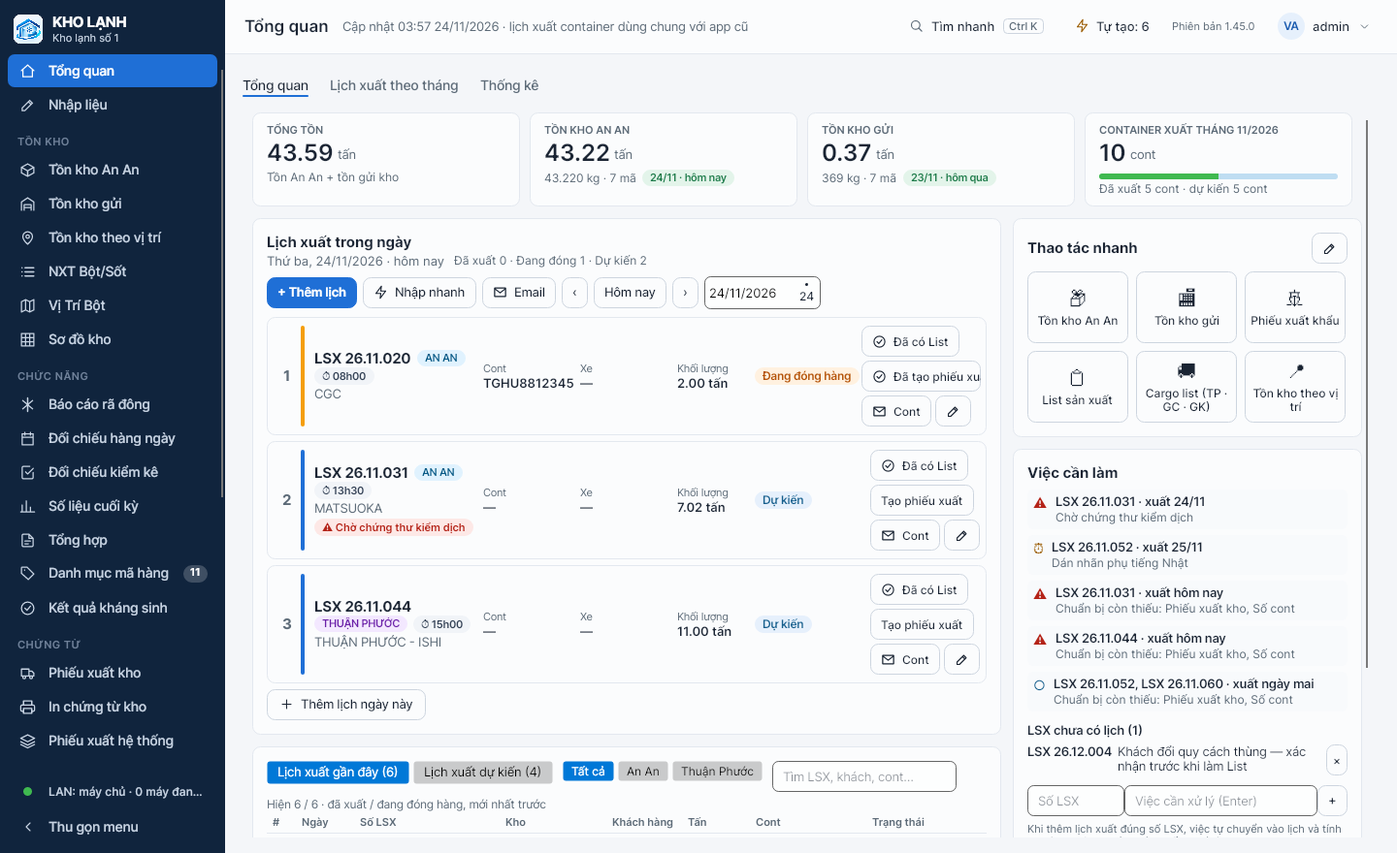
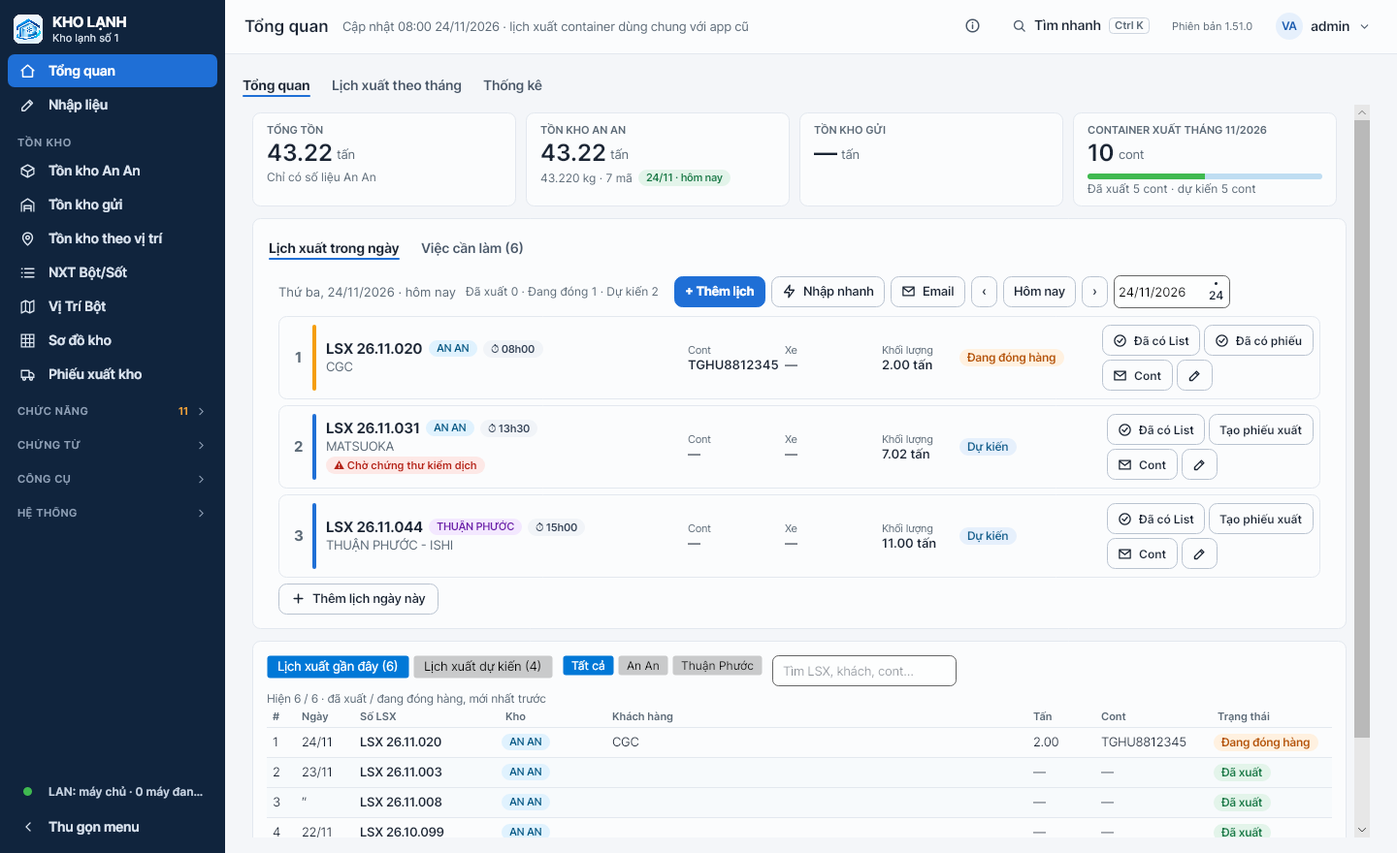
1.52.0: mở bảng ra cửa sổ lớn (mọi bảng), bảng con List sản xuất đủ dòng, Tổng quan gọn
- SheetGrid.OpenLarge: nút ⤢ ở góc trên trái (hoặc F11 / chuột phải) mở bảng ra cửa sổ gần toàn màn hình,
  cùng GridModel (sửa ở đâu cũng cập nhật), giữ định dạng / ô tích / bộ lọc. Lưới chỉ nghe Model khi đang hiện.
- Dòng tìm kiếm bỏ qua cột ẩn rộng 0.
- Phiếu xuất kho › List sản xuất: bảng con cao theo số dòng (tối thiểu 3), khung chi tiết rộng ngang danh sách.
- Tổng quan: bỏ khung Thao tác nhanh; Việc cần làm thành tab 2 của Lịch xuất trong ngày; hai khung rộng hết trang.

Claude-Session: https://claude.ai/code/session_01CcL5zKPX6MXqPbz7cZL3gY

diff --git a/src/KhoLanh.App/Controls/SheetGrid.cs b/src/KhoLanh.App/Controls/SheetGrid.cs
@@ -264,7 +264,10 @@ public sealed class SheetGrid : UserControl
         _vbar.PropertyChanged += (_, e) => { if (e.Property == RangeBase.ValueProperty) { TopRow = (int)Math.Round(_vbar.Value); Redraw(); } };
         _hbar.PropertyChanged += (_, e) => { if (e.Property == RangeBase.ValueProperty) { OffsetX = _hbar.Value; Redraw(); } };
         _surface.SizeChanged += (_, _) => UpdateScroll();
-        Model.Changed += OnModelChanged;
+        // nghe Model chỉ khi đang hiện: lưới trong cửa sổ lớn (OpenLarge) đóng rồi thì thôi nghe, không giữ lại bộ nhớ.
+        // Gắn lại vào màn hình → đồng bộ những gì Model đổi trong lúc ẩn.
+        AttachedToVisualTree += (_, _) => { Model.Changed -= OnModelChanged; Model.Changed += OnModelChanged; OnModelChanged(); };
+        DetachedFromVisualTree += (_, _) => Model.Changed -= OnModelChanged;
         _seenLoads = Model.Loads; _seenRows = Model.RowCount;
         _editor.KeyDown += OnEditorKey;
         _fTimer.Tick += (_, _) => { _fTimer.Stop(); if (_fCol >= 0) SetFilter(_fCol, _fEditor.Text ?? ""); };
@@ -281,6 +284,54 @@ public sealed class SheetGrid : UserControl
     }
 
     public new void Focus() => _surface.Focus();
+
+    // ------------------------------------------------------------------ cửa sổ lớn (1.52)
+    /// <summary>Tiêu đề cửa sổ lớn (mặc định: tên trang đang mở).</summary>
+    public string? LargeTitle { get; set; }
+    /// <summary>Có nút ⤢ ở góc trên trái để mở bảng ra cửa sổ lớn (mặc định bật; lưới trong chính cửa sổ lớn thì tắt).</summary>
+    public bool CanEnlarge { get; set; } = true;
+    /// <summary>Cửa sổ lớn mở gần nhất (công cụ chụp màn hình dùng).</summary>
+    internal static Window? LastLarge;
+
+    /// <summary>
+    /// Mở bảng ra cửa sổ lớn (≈ 92 % màn hình): cùng dữ liệu (cùng GridModel — sửa ở đâu cũng cập nhật cả hai), cùng định dạng,
+    /// ô tích, bộ lọc riêng. Dùng cho bảng con / bảng trong khung hẹp chỉ thấy vài dòng.
+    /// </summary>
+    public async Task OpenLarge()
+    {
+        if (TopLevel.GetTopLevel(this) is not Window owner) return;
+        if (_editing) Commit(0, 0);
+        var g = new SheetGrid(Model)
+        {
+            SpareRows = SpareRows, EmptyText = EmptyText, Display = Display, CellBackground = CellBackground, CanEnlarge = false,
+            CheckFill = CheckFill, Filterable = Filterable,
+        };
+        g.CheckCol = CheckCol;
+        foreach (var (k, f) in _filters) g._filters[k] = new ColumnFilter { Text = f.Text, Allowed = f.Allowed is null ? null : new HashSet<string>(f.Allowed) };
+        var title = LargeTitle ?? owner.Title ?? "Bảng";
+        var close = new Button { Content = "Đóng", IsCancel = true, MinWidth = 90, HorizontalContentAlignment = HorizontalAlignment.Center };
+        var info = new TextBlock { Classes = { "muted" }, VerticalAlignment = VerticalAlignment.Center };
+        void Info() => info.Text = g.IsFiltered ? $"Đang hiện {g.VCount:N0} / {Model.RowCount:N0} dòng" : $"{Model.RowCount:N0} dòng";
+        g.FilterChanged += Info; Info();
+        var bar = new DockPanel { Margin = new Thickness(0, 10, 0, 0) };
+        DockPanel.SetDock(close, Dock.Right); bar.Children.Add(close); bar.Children.Add(info);
+        var root = new DockPanel();
+        DockPanel.SetDock(bar, Dock.Bottom); root.Children.Add(bar); root.Children.Add(g);
+        var scr = owner.Screens.ScreenFromWindow(owner)?.WorkingArea;
+        var sc = owner.RenderScaling <= 0 ? 1 : owner.RenderScaling;
+        var w = new Window
+        {
+            Title = title, Width = Math.Max(800, (scr?.Width ?? 1400) / sc * 0.92), Height = Math.Max(500, (scr?.Height ?? 860) / sc * 0.88),
+            WindowStartupLocation = WindowStartupLocation.CenterOwner, ShowInTaskbar = false, Background = AppTheme.Card, MinWidth = 600, MinHeight = 360,
+            Content = new Border { Padding = new Thickness(14, 12), Child = root },
+        };
+        close.Click += (_, _) => w.Close();
+        LastLarge = w;
+        var (row, col) = (Row, Col);
+        w.Opened += (_, _) => { g.ApplyFilter(); g.Select(row, col); g.Focus(); };
+        await w.ShowDialog(owner);
+        Redraw();
+    }
 
     internal void Redraw() { _surface.InvalidateVisual(); if (_editing) PlaceEditor(); if (_fEditor.IsVisible) PlaceFilterEditor(); }
 
@@ -394,6 +445,7 @@ public sealed class SheetGrid : UserControl
             case Key.Tab: Move((VR, Col + (shift ? -1 : 1)), false); break;
             case Key.Enter: Move((VR + (shift ? -1 : 1), Col), false); break;
             case Key.F2: BeginEdit(null); break;
+            case Key.F11 when CanEnlarge: _ = OpenLarge(); break;
             case Key.Space when HasCheck && !ctrl: ToggleRows(SelModelRows().Where(m => m < Model.RowCount).ToList()); break;
             case Key.Delete: ClearSelection(); break;
             case Key.Back: BeginEdit(""); break;
@@ -595,11 +647,16 @@ public sealed class SheetGrid : UserControl
                 Item("Làm lại", () => Model.Redo(), "Ctrl+Y"),
             },
         };
+        var big = Item("Mở bảng ra cửa sổ lớn", async () => await OpenLarge(), "F11");
+        var selAll = Item("Chọn tất cả", () => SelectRangeV(new CellRange(0, 0, Math.Max(0, VCount - 1), Math.Max(0, Model.ColCount - 1))), "Ctrl+A");
+        menu.Items.Insert(0, big); menu.Items.Insert(1, new Separator());
+        menu.Items.Add(new Separator()); menu.Items.Add(selAll);
         var fMenu = Item("Lọc cột này…", () => OpenFilterMenu(Col), "Alt+Down");
         var fClear = Item("Bỏ mọi bộ lọc", ClearFilters);
-        menu.Items.Insert(0, fMenu); menu.Items.Insert(1, fClear); menu.Items.Insert(2, new Separator());
+        menu.Items.Insert(2, fMenu); menu.Items.Insert(3, fClear); menu.Items.Insert(4, new Separator());
         menu.Opening += (_, _) =>
         {
+            big.IsVisible = CanEnlarge; ((Separator)menu.Items[1]!).IsVisible = CanEnlarge;
             fMenu.IsVisible = fClear.IsVisible = _filterable;
             fClear.IsEnabled = _map is not null;
             fClear.Header = _map is null ? "Bỏ mọi bộ lọc" : $"Bỏ mọi bộ lọc (đang hiện {_map.Count:N0} / {Model.RowCount:N0} dòng)";
@@ -738,6 +795,7 @@ public sealed class SheetGrid : UserControl
                 using (dc.PushClip(new Rect(rhw, hh, Math.Max(0, b.Width - rhw), SheetGrid.FilterH)))
                     foreach (var (c, cx, cw) in cols)
                     {
+                        if (cw < 24) continue;   // cột ẩn (rộng 0, giữ mã dòng) / quá hẹp: không có ô tìm
                         var q = _g.FilterOf(c)?.Text ?? "";
                         var cell = new Rect(cx, hh, cw, SheetGrid.FilterH);
                         if (q.Trim().Length > 0) dc.FillRectangle(FilterOnBg, cell);
@@ -785,6 +843,13 @@ public sealed class SheetGrid : UserControl
                 if (filtered) { dc.FillRectangle(FilterOnBg, new Rect(1, hh + 1, rhw - 2, SheetGrid.FilterH - 2)); dc.DrawGeometry(Accent, null, fun); }
                 else dc.DrawGeometry(null, new Pen(Muted, 1), fun);
                 dc.DrawLine(HeadLine, new Point(0, top - 0.5), new Point(rhw, top - 0.5));
+            }
+            if (_g.CanEnlarge)
+            {   // ô góc: nút ⤢ mở bảng ra cửa sổ lớn (hai mũi tên chéo)
+                var cx = _g.NumW / 2; var cy = hh / 2; var pen = new Pen(Muted, 1.4) { LineCap = PenLineCap.Round };
+                dc.DrawLine(pen, new Point(cx - 5, cy + 5), new Point(cx + 5, cy - 5));
+                dc.DrawLine(pen, new Point(cx + 1, cy - 5), new Point(cx + 5, cy - 5)); dc.DrawLine(pen, new Point(cx + 5, cy - 5), new Point(cx + 5, cy - 1));
+                dc.DrawLine(pen, new Point(cx - 5, cy + 1), new Point(cx - 5, cy + 5)); dc.DrawLine(pen, new Point(cx - 5, cy + 5), new Point(cx - 1, cy + 5));
             }
             if (_g.HasCheck)
             {   // ô tích tiêu đề = chọn / bỏ mọi dòng đang hiện
@@ -853,6 +918,7 @@ public sealed class SheetGrid : UserControl
                 if (r < 0 && p.Y < SheetGrid.HeadH) { var all = _g.ShownRows; _g.SetChecked(all, _g.MasterState() != true); e.Handled = true; return; }
                 if (r >= 0) { var m = _g.ToModel(r); if (m < _g.Model.RowCount) { _g.SelectV(r, _g.Col); _g.ToggleRows(new[] { m }); } e.Handled = true; return; }
             }
+            if (r < 0 && c < 0 && _g.CanEnlarge && p.Y < SheetGrid.HeadH && p.X < _g.NumW) { e.Handled = true; _ = _g.OpenLarge(); return; }
             if (r < 0 && c < 0) { _g.SelectRangeV(new CellRange(0, 0, Math.Max(0, _g.VCount - 1), _g.Model.ColCount - 1)); return; }
             if (r < 0) // tiêu đề cột
             {
@@ -882,8 +948,12 @@ public sealed class SheetGrid : UserControl
             var p = e.GetPosition(this);
             if (_drag == Drag.None)
             {
+                var onBig = _g.CanEnlarge && p.Y < SheetGrid.HeadH && p.X < _g.NumW;
                 Cursor = ResizeHit(p) >= 0 ? new Cursor(StandardCursorType.SizeWestEast)
+                    : onBig ? new Cursor(StandardCursorType.Hand)
                     : _g.ShowFilterRow && p.Y >= SheetGrid.HeadH && p.Y < _g.TopH ? new Cursor(StandardCursorType.Ibeam) : Cursor.Default;
+                var tip = onBig ? "Mở bảng ra cửa sổ lớn (F11)" : null;
+                if (!Equals(ToolTip.GetTip(this), tip)) { ToolTip.SetTip(this, tip); ToolTip.SetIsOpen(this, tip is not null); }
                 return;
             }
             if (_drag == Drag.Resize)

diff --git a/src/KhoLanh.App/Views/TongQuanView.cs b/src/KhoLanh.App/Views/TongQuanView.cs
@@ -16,8 +16,8 @@ namespace KhoLanh.App.Views;
 /// • Lịch xuất trong ngày (lùi / tới ngày): mỗi container 1 thẻ — LSX, khách, công ty, việc cần làm, số cont, số xe, tấn, trạng thái;
 ///   nút Tạo List / Tạo phiếu xuất (hoặc "Đã có" → mở thẳng), ✉ Cont (dán email Thông tin xe), Sửa. Bấm thẻ → chi tiết lịch.
 /// • + Thêm lịch · ⚡ Nhập nhanh (dán kế hoạch "Ngày dd/mm: … LSX …") · ✉ Email (duyệt thư cập nhật lịch, tự quét Gmail).
-/// • Lịch xuất gần đây / dự kiến (lọc An An / Thuận Phước, tìm), Việc cần làm (việc đến hạn, chuẩn bị còn thiếu, việc cho LSX chưa có lịch),
-///   Thao tác nhanh (tùy chọn theo tài khoản). Tab Lịch tháng (danh sách theo ngày) và Thống kê (theo tháng trong năm).
+/// • Việc cần làm (tab 2 của khung Lịch xuất trong ngày: việc đến hạn, chuẩn bị còn thiếu, việc cho LSX chưa có lịch),
+///   Lịch xuất gần đây / dự kiến (lọc An An / Thuận Phước, tìm). Tab Lịch tháng (danh sách theo ngày) và Thống kê (theo tháng trong năm).
 /// </summary>
 public sealed partial class TongQuanView : UserControl, IPage
 {
@@ -50,7 +50,8 @@ public sealed partial class TongQuanView : UserControl, IPage
     private readonly TextBox _rq = new() { Watermark = "Tìm LSX, khách, cont…", Width = 190, FontSize = 12.5 };
     private readonly WrapPanel _rSeg = new() { ItemSpacing = 4 }, _rCoBar = new() { ItemSpacing = 4 };
     private readonly StackPanel _todo = new() { Spacing = 6 };
-    private readonly WrapPanel _quick = new() { ItemSpacing = 8, LineSpacing = 8 };
+    private readonly WrapPanel _quick = new() { ItemSpacing = 8, LineSpacing = 8 };   // không còn hiện (1.52) — giữ để không đổi lưu thiết lập cũ
+    private readonly TabItem _todoTab = new();
     private readonly Button _email;
     private readonly CalendarDatePicker _pick = new() { Width = 120, SelectedDateFormat = CalendarDatePickerFormat.Custom, CustomDateFormatString = "dd/MM/yyyy" };
     private readonly StackPanel _monthBody = new() { Spacing = 4 };
@@ -123,7 +124,7 @@ public sealed partial class TongQuanView : UserControl, IPage
         acts.Children.Add(Btn("Hôm nay", () => { _dayOff = 0; PaintDay(); return Task.CompletedTask; }));
         acts.Children.Add(Btn("›", () => { _dayOff++; PaintDay(); return Task.CompletedTask; }));
         acts.Children.Add(_pick);
-        var tl = new StackPanel { Spacing = 2 }; tl.Children.Add(H2("Lịch xuất trong ngày"));
+        var tl = new StackPanel { Spacing = 2, VerticalAlignment = VerticalAlignment.Center };
         var sub = new StackPanel { Orientation = Orientation.Horizontal, Spacing = 10 }; sub.Children.Add(_dayLb); sub.Children.Add(_dayCnt); tl.Children.Add(sub);
         dayHead.Children.Add(tl); dayHead.Children.Add(acts);
         var dayBox = new StackPanel(); dayBox.Children.Add(dayHead); dayBox.Children.Add(_day);
@@ -137,21 +138,16 @@ public sealed partial class TongQuanView : UserControl, IPage
         rHead.Children.Add(_rSeg); rHead.Children.Add(_rCoBar); rHead.Children.Add(_rq);
         var recentBox = new StackPanel(); recentBox.Children.Add(rHead); recentBox.Children.Add(_recentNote); recentBox.Children.Add(_recent);
 
-        var left = new StackPanel { Spacing = 12 };
-        left.Children.Add(Card(dayBox)); left.Children.Add(Card(recentBox));
-
-        var qHead = new DockPanel { Margin = new Thickness(0, 0, 0, 8) };
-        var qEdit = Btn("✎", async () => await QuickEdit(), "Chọn các ô thao tác nhanh của tài khoản này"); DockPanel.SetDock(qEdit, Dock.Right); qHead.Children.Add(qEdit);
-        qHead.Children.Add(H2("Thao tác nhanh"));
-        var qBox = new StackPanel(); qBox.Children.Add(qHead); qBox.Children.Add(_quick);
-        var tdBox = new StackPanel(); tdBox.Children.Add(H2("Việc cần làm").Also(t => t.Margin = new Thickness(0, 0, 0, 8))); tdBox.Children.Add(_todo);
-        var right = new StackPanel { Spacing = 12 };
-        right.Children.Add(Card(qBox)); right.Children.Add(Card(tdBox));
-
-        var cols = new Grid { ColumnDefinitions = new ColumnDefinitions("*,12,360") };
-        cols.Children.Add(left); Grid.SetColumn(right, 2); cols.Children.Add(right);
+        // 1.52: bỏ khung "Thao tác nhanh" (đã có menu bên trái); "Việc cần làm" thành tab 2 của khung Lịch xuất trong ngày;
+        // hai khung còn lại rộng hết trang.
+        _todoTab.Header = "Việc cần làm";
+        _todoTab.Content = new StackPanel { Margin = new Thickness(0, 8, 0, 0), Children = { _todo } };
+        var dayTabs = new TabControl
+        {
+            Items = { new TabItem { Header = "Lịch xuất trong ngày", Content = new StackPanel { Margin = new Thickness(0, 8, 0, 0), Children = { dayBox } } }, _todoTab },
+        };
         var root = new StackPanel { Spacing = 12 };
-        root.Children.Add(_kpi); root.Children.Add(_warn); root.Children.Add(cols);
+        root.Children.Add(_kpi); root.Children.Add(_warn); root.Children.Add(Card(dayTabs)); root.Children.Add(Card(recentBox));
         return root;
     }
 
@@ -360,6 +356,8 @@ public sealed partial class TongQuanView : UserControl, IPage
             .GroupBy(x => string.Join(",", x.Ids)).Select(g => g.First())
             .Select(x => (x, thieu: new[] { x.HasList ? "" : "List", x.HasPhieu ? "" : "Phiếu xuất kho", x.Cont.Length > 0 && !x.Cont.StartsWith("ghép") ? "" : "Số cont" }.Where(s => s.Length > 0).ToList()))
             .Where(x => x.thieu.Count > 0).ToList();
+        var nTodo = hot.Count + prep.Count + Svc.Pending.Select(p => Sq(p.Lsx)).Distinct().Count();
+        _todoTab.Header = nTodo > 0 ? $"Việc cần làm ({nTodo})" : "Việc cần làm";
         if (hot.Count == 0 && prep.Count == 0 && Svc.Pending.Count == 0)
             _todo.Children.Add(new TextBlock { Text = "✓ Không có việc đến hạn.", Foreground = B("#1E7B34"), FontSize = 12.5 });
         foreach (var (r, s) in hot)

diff --git a/src/KhoLanh.App/Views/ListSxView.cs b/src/KhoLanh.App/Views/ListSxView.cs
@@ -58,7 +58,7 @@ public sealed class ListSxView : UserControl
 
         var top = new StackPanel { Spacing = 4, Margin = new Thickness(0, 6, 0, 6) };
         top.Children.Add(bar); top.Children.Add(_status);
-        var split = new Grid { ColumnDefinitions = new ColumnDefinitions("5*,6,4*") };
+        var split = new Grid { ColumnDefinitions = new ColumnDefinitions("1*,6,1*") };   // 1.52: khung chi tiết rộng ngang danh sách
         split.Children.Add(new Border { BorderBrush = Line_, BorderThickness = new Thickness(1), Child = _lg });
         var gs = new GridSplitter { Background = Brushes.Transparent }; Grid.SetColumn(gs, 1); split.Children.Add(gs);
         var right = new ScrollViewer { Content = new Border { Padding = new Thickness(8, 0, 4, 8), Child = _detail }, HorizontalScrollBarVisibility = Avalonia.Controls.Primitives.ScrollBarVisibility.Disabled };
@@ -151,7 +151,8 @@ public sealed class ListSxView : UserControl
         var sm = new GridModel { ReadOnly = !_edit };
         sm.Load(new[] { new GridColumn("size", "Size", 90) { ReadOnly = true }, new GridColumn("ten", "Tên hàng", 200), new GridColumn("ma", "Mã hàng", 180), new GridColumn("lo", "Mã lô", 80), new GridColumn("tong", "Tổng kiện", 75, "number") { ReadOnly = true } },
             d.Sizes.Select(z => new[] { z.Size, z.Ten, z.Ma, z.Lo, F(d.Rows.Sum(r => r.Qty.GetValueOrDefault(z.Size))) }));
-        _detail.Children.Add(new Border { BorderBrush = Line_, BorderThickness = new Thickness(1), Height = Math.Min(280, 48 + 28 * Math.Max(1, d.Sizes.Count)), Child = new SheetGrid(sm) { SpareRows = 0 } });
+        // 1.52: cao theo số dòng thật (tối thiểu 3 dòng, kèm thanh cuộn ngang) — trước đây chỉ thấy 1 dòng; ⤢ ở góc bảng mở cửa sổ lớn
+        _detail.Children.Add(new Border { BorderBrush = Line_, BorderThickness = new Thickness(1), Height = SubH(d.Sizes.Count, 320), Child = new SheetGrid(sm) { SpareRows = 0, LargeTitle = $"LSX {info.Rec.Lsx} — Hàng theo size" } });
         if (_edit) _detail.Children.Add(Btn("💾 Lưu Tên / Mã / Lô", async () =>
         {
             for (var i = 0; i < d.Sizes.Count; i++) { d.Sizes[i].Ten = sm.Get(i, 1).Trim(); d.Sizes[i].Ma = sm.Get(i, 2).Trim(); d.Sizes[i].Lo = sm.Get(i, 3).Trim(); }
@@ -172,8 +173,11 @@ public sealed class ListSxView : UserControl
             a.Add(r.Mks ? (r.MksQty is { Count: > 0 } mq ? string.Join(", ", mq.Select(x => x.Key + ":" + F(x.Value))) : r.MksSizes is { Count: > 0 } ms ? string.Join(", ", ms) : "MKS") : "");
             return a.ToArray();
         }));
-        _detail.Children.Add(new Border { BorderBrush = Line_, BorderThickness = new Thickness(1), Height = Math.Min(400, 48 + 28 * Math.Max(1, d.Rows.Count)), Child = new SheetGrid(rm) { SpareRows = 0 } });
+        _detail.Children.Add(new Border { BorderBrush = Line_, BorderThickness = new Thickness(1), Height = SubH(d.Rows.Count, 440), Child = new SheetGrid(rm) { SpareRows = 0, LargeTitle = $"LSX {info.Rec.Lsx} — Ngày sản xuất × size" } });
     }
+
+    /// <summary>Chiều cao bảng con: tiêu đề + số dòng (≥ 3) + thanh cuộn ngang, tối đa <paramref name="max"/>.</summary>
+    private static double SubH(int rows, double max) => Math.Min(max, SheetGrid.HeadH + SheetGrid.RowH * Math.Max(3, rows) + 22);
 
     private async Task Import()
     {

diff --git a/tools/Screenshots/Program.cs b/tools/Screenshots/Program.cs
@@ -1173,6 +1173,15 @@ void FilterScene()
         if (KhoLanh.App.Controls.Icon.TextOf(w.Content) == "Hủy") { w.RaiseEvent(new Avalonia.Interactivity.RoutedEventArgs(Button.ClickEvent)); break; }
     g.ClearFilters(); for (var i = 0; i < 10; i++) { Thread.Sleep(30); Pump(); }
     Console.WriteLine($"  [Lọc] bỏ lọc: {g.ShownRows.Count}/{total} dòng");
+    // 1.52: ⤢ mở bảng ra cửa sổ lớn (cùng dữ liệu)
+    _ = g.OpenLarge(); for (var i = 0; i < 30; i++) { Thread.Sleep(30); Pump(); }
+    if (KhoLanh.App.Controls.SheetGrid.LastLarge is { } big)
+    {
+        var bg = big.GetVisualDescendants().OfType<KhoLanh.App.Controls.SheetGrid>().First();
+        Console.WriteLine($"  [Cửa sổ lớn] {big.Width:0}×{big.Height:0} · {bg.Model.RowCount} dòng · cùng dữ liệu={ReferenceEquals(bg.Model, g.Model)}");
+        Snap(big, "45c-bang-cua-so-lon");
+        big.Close(); for (var i = 0; i < 10; i++) { Thread.Sleep(30); Pump(); }
+    }
 }
 
 static string FindRepo()

diff --git a/CLAUDE.md b/CLAUDE.md
@@ -41,6 +41,7 @@ App quản lý kho lạnh **viết lại bằng C#** (.NET 8, Avalonia, SQLite) 
 | 1.39 | Tự tạo List / phiếu theo Lịch xuất (`PNX_AutoLog` dùng chung app cũ) | `LichXuat/LichXuatAuto.cs`, `PhieuKho/PhieuKhoAuto.cs` |
 | 1.40 | Danh mục mã hàng (quyền `m3dm`) | `DanhMuc/` |
 | 1.41 | Kiểm kê nhanh (tab đầu Đối chiếu kiểm kê) | `KiemKe/KkNhanh.cs`, `Views/KiemKeView.Nhanh.cs` |
+| 1.52 | Mọi bảng có nút ⤢ (góc trên trái / F11 / chuột phải) mở ra cửa sổ lớn cùng dữ liệu · bảng con List sản xuất cao theo số dòng (≥ 3), khung chi tiết rộng ngang danh sách · Tổng quan: bỏ Thao tác nhanh, Việc cần làm thành tab 2 của Lịch xuất trong ngày, hai khung rộng hết trang | `SheetGrid.OpenLarge`, `ListSxView.SubH`, `TongQuanView.HomeTab` |
 | 1.51 | Gọn ghi chú toàn app: ghi chú hướng dẫn dài (chữ mờ, có sẵn khi mở trang) tự ẩn, gom vào nút ⓘ Hướng dẫn ở đầu trang · dòng tìm kiếm cột tự ẩn ở bảng thấp (sửa bảng con chỉ thấy 1 dòng sau 1.49) | `Controls/HintTrim.cs`, `MainWindow` (`ShowHelp`), `SheetGrid.ShowFilterRow` |
 | 1.50 | Chọn hàng xuất bằng ô tích đầu dòng (An An › Xuất Hàng, Gửi › Tạo phiếu xuất, Vị Trí Bột, Tồn theo vị trí; tích = lấy hết tồn, ô tiêu đề = mọi dòng đang hiện, phím cách) · thanh cuộn luôn to · Sơ đồ kho gọn phần đầu · tab "Phiếu xuất nội địa" | `Controls/SheetGrid.cs` (`CheckCol`, `CheckFill`, `SetChecked`), `Styles.axaml`, `SoDoView.cs` |
 | 1.49 | Lọc ở mọi bảng: dòng tìm kiếm riêng từng cột + nút ▾ danh sách lọc phân tầng (Năm › Tháng › Ngày cho cột ngày, chỉ giá trị còn lại sau cột khác) · khung bảng / đường kẻ / tiêu đề cột đậm hơn · tab Báo Cáo An An: Tổng Tồn to hơn, Đối soát gọn, HLSO rộng hơn | `Core/Grid/GridFilter.cs`, `Controls/SheetGrid.cs` (`VR`/`VA` = dòng đang hiện, `ToModel`/`ToVisual`, `Filterable`), `Controls/FilterMenu.cs` |
@@ -70,6 +71,7 @@ App quản lý kho lạnh **viết lại bằng C#** (.NET 8, Avalonia, SQLite) 
 
 ## Nhật ký tiến độ
 (Ghi theo mẫu: ngày · việc · bản · đã làm · còn thiếu / lưu ý · file chính.)
+- 24/11/2026 · Bảng rộng hơn + Tổng quan · 1.52.0 · người dùng: "một số bảng chỉ hiển thị 1 dòng… thiết kế tab khác hoặc popup cho rộng hơn" + "xóa Thao tác nhanh, Việc cần làm thành tab 2 của Lịch xuất trong ngày, căn rộng 2 bảng còn lại". Chung: `SheetGrid.OpenLarge` — nút ⤢ vẽ ở ô góc (bấm / F11 / chuột phải), cửa sổ ≈ 92 % màn hình, lưới mới CÙNG `GridModel` (sửa ở đâu cũng cập nhật), chép Display / CellBackground / ô tích / bộ lọc; lưới nghe `Model.Changed` chỉ khi gắn vào màn hình (gắn lại thì đồng bộ) để cửa sổ đóng không giữ bộ nhớ; Chọn tất cả chuyển sang chuột phải / Ctrl+A. Dòng tìm kiếm bỏ qua cột ẩn rộng 0. Riêng: List sản xuất `SubH` (≥ 3 dòng) + khung chi tiết 1:1. Tổng quan: `_quick` không còn hiện (giữ code / thiết lập cũ). Ảnh `45c-bang-cua-so-lon`, `05-tong-quan`, `30c-list-san-xuat`. Còn có thể làm: chuyển từng bảng con chật sang tab riêng nếu người dùng chỉ ra màn hình cụ thể.
 - 24/11/2026 · Gọn ghi chú + bảng con · 1.51.0 · người dùng: "bảng dữ liệu quá nhỏ, ghi chú quá nhiều, lược bỏ ghi chú không cần thiết toàn app" (~110 ghi chú ở ~25 màn hình) → làm ở tầng chung `HintTrim` (class handler `Control.LoadedEvent` cho TextBlock): chữ mờ `muted` + xuống dòng + ≥ 60 ký tự + nằm trong `PageHost` lúc hiện → ẩn; chữ đổi sau đó (dòng trạng thái động) → hiện lại; giữ riêng bằng `Tag = "keep"`. Nút ⓘ đầu trang (`MainWindow.ShowHelp`) liệt kê ghi chú đã ẩn của tab đang mở (Flyout rộng tối đa ~456 px → nội dung 410). Sửa hồi quy 1.49: dòng tìm kiếm cột (26 px) làm bảng con cố định chiều cao chỉ còn 1 dòng → `SheetGrid.ShowFilterRow` chỉ hiện khi bảng cao ≥ tiêu đề + dòng lọc + 6 dòng (hoặc đang lọc bằng chữ); bảng thấp vẫn lọc bằng nút ▾. Ảnh `27z-huong-dan`. Việc tiếp (người dùng xếp hàng): bảng con rộng hơn (tab / cửa sổ lớn theo module, vd Phiếu xuất kho › List sản xuất) · Tổng quan: bỏ Thao tác nhanh, Việc cần làm thành tab 2 của Lịch xuất trong ngày.
 - 24/11/2026 · Chọn hàng xuất + thanh cuộn + Sơ đồ kho gọn · 1.50.0 · 1.49.0 gộp vào main nhưng KHÔNG phát hành (CI main đỏ: `LanTests.Standby_takes_over…` "máy con chuyển sang máy dự phòng") → nội dung 1.49 ra cùng 1.50. Nguyên nhân: máy con chỉ học danh sách máy chủ / dự phòng (`lan_nodes`) ở lượt "changes" (15 s); máy chủ tắt ngay sau khi máy dự phòng vừa nối → máy con không biết máy dự phòng, kẹt mất kết nối. Sửa: `Handle` gắn `nodes` vào trả lời read / list / write / sync, `CallServer` + `Flush` gọi `Learn`; test tất định `Client_learns_standby_from_a_write_before_its_next_pull` (đỏ khi bỏ phần sửa); 12 bộ `LanTests` song song đều đạt. người dùng: trang tạo phiếu xuất phải gõ SL → muốn chọn (mẫu bảng có ô tích + SL cần xuất, ưu tiên hiệu năng). Chọn giữ lưới tự vẽ (chỉ vẽ phần đang thấy, không tạo control mỗi dòng) + ô tích vẽ trong cột số dòng: `SheetGrid.CheckCol` = cột SL, tích → điền `CheckFill` (tồn còn xuất được), bỏ tích → xóa, mọi thay đổi qua `Model.SetCells` (1 lần hoàn tác) nên luồng `Model.Changed` cũ của View giữ nguyên. Thanh cuộn: `AllowAutoHide=False` toàn app (Styles.axaml). Sơ đồ kho: công cụ lên dòng thông tin file, Kho + Khu 1 dòng, thẻ số 1 dòng, Phiếu In: 1 thanh công cụ, ghi chú thành tooltip. Tab Cargo list → "Phiếu xuất nội địa". Công cụ chụp: `SHOTS_KEYS=m8,m13` chụp riêng module; ảnh `40-an-an-xuat-hang-tich-chon`, `41-gui-px-tich-chon`.
 - 24/11/2026 · Lọc mọi bảng + bảng rõ hơn · 1.49.0 (gộp chung PR với 1.48.0) · người dùng: "thu nhỏ bảng đối soát, tăng kích thước bảng tổng tồn, mở rộng bảng Tổng hợp HLSO, khung viền bảng nổi bật, tiêu đề cột tô đậm" + "các bảng số liệu tạo thêm cột lọc kiểu phân tầng và dòng tìm kiếm riêng cho từng cột, áp dụng toàn bộ bảng". Lưới: viền ngoài / kẻ tiêu đề #B9C3D0, kẻ ô #DDE3EA, nền tiêu đề #EDF1F6, chữ tiêu đề Bold 13 #1A2433 (đã thêm màu Tối). Lọc làm trong `SheetGrid` nên phủ mọi bảng: chọn lưu theo dòng đang hiện (`VR`/`VA`), API công khai (`Row`, `Selection`, `Select`, `Display`, `CellBackground`) vẫn là chỉ số dòng dữ liệu → các View không phải sửa. Nạp dữ liệu mới (`GridModel.Loads`) hoặc đổi số dòng thì lọc lại, giữ bộ lọc theo khóa cột; sửa ô thì giữ dòng đang hiện như Excel. Khi lọc không có dòng trống dự phòng. Bảng nhỏ đặt `Filterable = false` (chiều cao tính bằng `SheetGrid.HeadH`; bảng có lọc cao thêm `FilterH` 26). Ảnh `45-loc-theo-cot`, `45b-loc-danh-sach-phan-tang` (cảnh `FilterScene`, chạy cùng `SHOTS_ONLY=dm`). Test `GridFilterTests`.

diff --git a/README.md b/README.md
@@ -46,6 +46,7 @@ App đang được dựng lại theo từng module (từ bản 1.7.0 đã gỡ c
 | Giao diện | Menu tài khoản › **Giao diện & cỡ chữ…**: 2 bộ màu **Sáng dịu** (nền trắng ngà / xám rất nhạt, không trắng tinh) và **Tối** (xám đen), thu phóng toàn màn hình 90–130 % (phím tắt Ctrl + / Ctrl − / Ctrl 0); xem trước ngay, lưu riêng theo tài khoản trên máy. Màu của mọi màn hình đi qua bảng màu chung `AppTheme` (bộ Tối tự đổi từ màu bộ Sáng, giữ sắc màu); ảnh / phiếu in xuất ra file giữ màu gốc. Hộp thoại cũng phóng theo cỡ chữ. |
 | Lọc bảng (mọi bảng) | Mọi bảng số liệu (lưới kiểu Excel) có **dòng tìm kiếm riêng từng cột** ngay dưới tiêu đề (bấm vào để gõ; không phân biệt hoa thường / dấu, nhiều từ đều phải có; cột số gõ được `>100`, `<=0`, `=300`, `<>0`) và nút **▾ lọc phân tầng** ở tiêu đề (hoặc Alt+↓): danh sách giá trị kèm số dòng, chỉ còn giá trị qua được bộ lọc các cột khác, cột ngày chia Năm › Tháng › Ngày, có (Trống), ô tìm trong danh sách, Chọn tất cả. Cột đang lọc tô xanh, số dòng gốc hiện xanh; bấm phễu ở góc trái hoặc chuột phải › Bỏ mọi bộ lọc. Chép / dán / xóa / điền xuống chỉ tác động dòng đang hiện. Bảng tóm tắt vài dòng (Tổng Tồn, Đối soát) không có dòng lọc. |
 | Chọn hàng xuất | Các trang tạo phiếu xuất (Tồn kho An An › Xuất Hàng, Tồn kho gửi › Tạo phiếu xuất, Vị Trí Bột, Tồn kho theo vị trí) có **ô tích ☐ đầu dòng**: tích = chọn xuất hết tồn còn lại của dòng (sửa lại SL được), bỏ tích = bỏ chọn; ô tích tiêu đề = chọn / bỏ mọi dòng đang hiện (dùng cùng dòng lọc từng cột); phím cách tích các dòng đang chọn. Vẫn gõ / dán SL như cũ được. Thanh cuộn toàn app luôn hiện cỡ lớn. |
+| Bảng cửa sổ lớn | Mọi bảng có nút **⤢** ở góc trên trái (hoặc F11, hoặc chuột phải › Mở bảng ra cửa sổ lớn): mở bảng ra cửa sổ gần toàn màn hình, cùng dữ liệu (sửa ở đâu cũng cập nhật), có lọc / ô tích như bảng gốc — dùng cho bảng con trong khung hẹp. Tổng quan: “Việc cần làm” là tab 2 của khung Lịch xuất trong ngày (bỏ khung Thao tác nhanh — đã có menu bên trái). |
 | Gọn ghi chú | Ghi chú hướng dẫn dài trong các trang được thu lại để bảng có thêm chỗ; xem lại bằng nút **ⓘ Hướng dẫn** ở đầu trang (liệt kê ghi chú của tab đang mở). Dòng trạng thái (số dòng, kết quả đối soát…) vẫn hiện. Bảng thấp (bảng con) tự ẩn dòng tìm kiếm cột để thấy đủ dòng — vẫn lọc bằng nút ▾ ở tiêu đề. |
 | An toàn | Tự sao lưu mỗi ngày (giữ 30 bản), sao lưu ra file, khôi phục, nhật ký thao tác. |
 | Trợ lý hệ thống | Viết bằng C#, theo "Trợ lý hệ thống" của app cũ, **chỉ Quản trị**, chỉ đọc (Hệ thống › Trợ lý hệ thống). Quét nhanh / Quét sâu: lỗi phần mềm (đọc `logs/loi.log`, kể cả lỗi chưa bắt), sức khỏe CSDL (integrity_check, dung lượng, nhật ký, trang trống, xung đột LAN), ghi phiếu (trùng số phiếu, dòng mồ côi, phiếu rỗng, SL sai), số liệu nghiệp vụ (tồn âm sổ kho, xuất trước nhập, ngày vô lý, phiếu lưu 2 lần, SL gấp ≥ 10 lần thường lệ), dòng trùng khóa ở mọi bảng, mã hàng 21 ký tự + tên hàng so với Danh sách mã hàng (thiếu / ghép thêm chữ, lỗi font, nhiều tên), **kiểm tra chéo** (tồn âm ở An An / Vị trí / Kho gửi; Tồn An An ⇄ Tồn theo vị trí cùng ngày: mã chỉ có một bên, tổng lệch), sao lưu (thử mở bản mới nhất khi Quét sâu), đồng bộ LAN / Drive, file tạm dở dang. **Việc cần chú ý hôm nay**: lịch xuất khẩu hôm nay / mai thiếu List · Phiếu xuất kho · Số cont, phiếu vị trí chưa chọn loại, mất máy chủ / sổ chờ / xung đột LAN, chưa sao lưu hôm nay, bảng tồn lâu chưa nạp, lỗi phần mềm hôm nay. Hàng đợi đề xuất có trạng thái (Mới → Đã gửi Claude → Chờ kiểm tra → Đã đóng / Tái phát, Bỏ qua, Lỗi từ nguồn), sao chép báo cáo cho Claude (ẩn tên / email), thêm mã chuẩn còn thiếu vào Danh sách mã hàng. Tự quét nhanh 90 giây sau khi Quản trị đăng nhập rồi mỗi 6 giờ; có cảnh báo nặng thì hiện nút ⚠ trên thanh menu. Trạng thái lưu ở `tro-ly-state.json` trong thư mục dữ liệu. |
